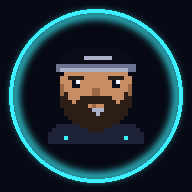
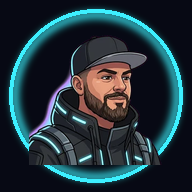
fix(pwa): use current character art on loading

Changed region(s): [[0.125, 0.1875, 0.8438, 0.875]]

diff --git a/js/assets.js b/js/assets.js
@@ -1,6 +1,5 @@
-// Arte HD gerada no Artlist (assets/*.webp). Carrega em segundo plano; enquanto não chega,
-// o render usa a pixel art de reserva de sprites.js.
-import { PORTRAIT_URL } from './sprites.js';
+// Arte HD gerada no Artlist (assets/*.webp). Carrega em segundo plano e nunca volta
+// para os retratos antigos enquanto os arquivos novos chegam.
 
 const NAMES = [
   'hero_idle', 'hero_run', 'hero_jump', 'hero_shoot', 'gle_idle', 'gle_run', 'gle_jump', 'gle_shoot', 'byte', 'byte_pink', 'drone', 'crawler', 'turret', 'boss',
@@ -40,10 +39,10 @@ export function loadArt() {
 export function useBotPortrait(botArt) { botKey = botArt === 'byte_pink' ? 'byte_pink' : 'byte'; }
 
 // Retrato de quem fala: sempre o HD (o navegador cuida do carregamento, sem corrida com o load).
-// Se o arquivo falhar, cai na pixel art de sprites.js; quem não tem retrato (SISTEMA) some.
+// Se o arquivo falhar, o retrato some; a arte antiga nunca reaparece.
 export function setPortrait(img, who) {
-  const key = who === 'byte' ? botKey : who, file = PORTRAITS[key], fallback = PORTRAIT_URL[who];
-  img.onerror = () => { img.onerror = null; if (fallback) img.src = fallback; else img.hidden = true; };
-  img.hidden = !file && !fallback;
-  if (file) img.src = assetPath(file); else if (fallback) img.src = fallback;
+  const key = who === 'byte' ? botKey : who, file = PORTRAITS[key];
+  img.onerror = () => { img.onerror = null; img.hidden = true; };
+  img.hidden = !file;
+  if (file) img.src = assetPath(file);
 }

diff --git a/js/render.js b/js/render.js
@@ -2,7 +2,6 @@
 import { W, H, T, ROWS, THEMES, PAL, HEROES, HERO_HEIGHT } from './config.js';
 import { rng } from './core.js';
 import { world, TILE, tileAt, isHackedGroupTile, pulseState } from './world.js';
-import { SPR } from './sprites.js';
 import { art, anim } from './assets.js';
 import { clawY, clawClosed, clawHeight, sceneDarkness, sceneFlash } from './scene.js';
 import { hackTarget } from './hack.js';
@@ -629,6 +628,8 @@ export function renderBackdrop(ctx, t) {
     rect(ctx, theme.line, x + T - 1, groundY, 1, 2 * T);
     rect(ctx, theme.hi, x, groundY, T, 2);
   }
-  ctx.drawImage(SPR.hero['idle-stand'][0], 120, groundY - 20);
-  ctx.drawImage(SPR.byte[0], 100, groundY - 34 + Math.round(Math.sin(t * 0.08) * 3));
+  // Enquanto a capa maior carrega, mostra apenas os personagens HD atuais; nunca os sprites antigos.
+  const hero = art('hero_idle'), bot = art('byte');
+  if (hero) drawArt(ctx, hero, 120, groundY, widthFor(hero, HERO_HEIGHT));
+  if (bot) drawArt(ctx, bot, 100, groundY - 20 + Math.round(Math.sin(t * 0.08) * 3), widthFor(bot, BYTE_HEIGHT));
 }

diff --git a/js/main.js b/js/main.js
@@ -1,7 +1,6 @@
 // Ponto de entrada: monta os módulos, dimensiona a tela e roda o loop com passo fixo.
 import { W, H, FPS, setViewWidth } from './config.js';
 import { $, on, emit } from './core.js';
-import { buildSprites } from './sprites.js';
 import { bindInput } from './input.js';
 import { tickMusic, unlockAudio, resumeAudio } from './audio.js';
 import { bindDialog } from './dialog.js';
@@ -68,7 +67,6 @@ function loop(now) {
 }
 
 function boot() {
-  buildSprites();
   loadArt();
   bindInput({ dpad: $('#dpad'), buttons: [...document.querySelectorAll('#btns [data-action]')] });
   bindDialog(); bindPuzzle(); bindScreens(); bindGame();

diff --git a/sw.js b/sw.js
@@ -1,9 +1,9 @@
 // Service worker: cache-first offline shell + stale-while-revalidate for Google Fonts.
-const VERSION = 'zeroday-445d1d3a6a';
+const VERSION = 'zeroday-cc43b97286';
 const FONT_CACHE = 'zeroday-fonts';
 
 const MODULES = [
-  'main', 'game', 'screens', 'render', 'config', 'core', 'audio', 'input', 'sprites', 'world', 'physics',
+  'main', 'game', 'screens', 'render', 'config', 'core', 'audio', 'input', 'world', 'physics',
   'dialog', 'hud', 'puzzle', 'fx', 'combat', 'player', 'hack', 'enemies', 'boss', 'ally', 'interact', 'assets', 'scene', 'i18n',
 ].map((name) => `js/${name}.js`);
 

diff --git a/build.py b/build.py
@@ -3,26 +3,13 @@
 import hashlib, re, sys
 from pathlib import Path
 
-from PIL import Image, ImageColor, ImageDraw, ImageFilter
+from PIL import Image, ImageDraw, ImageFilter
 
 ROOT = Path(__file__).resolve().parent
 BG = "#070914"
 CYAN = "#3df0ff"
 
-# Copied from js/config.js (PAL) and js/sprites.js (PORTRAITS.hero). '.' = transparent.
-PAL = {
-    "K": "#0b0d18", "k": "#1d2236", "G": "#6c7391", "g": "#aab1c9", "S": "#c98d63", "s": "#9a6747",
-    "B": "#2b1e17", "W": "#f1f4ff", "C": "#3df0ff", "c": "#1a8aa6", "P": "#28304d", "R": "#ff3b5c",
-    "r": "#a3173a", "O": "#e6e8f2", "Y": "#ffd23d", "V": "#9b5cff", "v": "#5a2fb0", "M": "#ff5ad1",
-}
-HERO = [
-    "......KKKKKKKKKKKK......", "....KKKKKKKKKKKKKKKK....", "...KKKKKKgggggggKKKKK...", "...KKKKKKKKKKKKKKKKKK...",
-    "..GGGGGGGGGGGGGGGGGGGG..", "..GgggggggggggggggggGG..", "....SSSSSSSSSSSSSSSS....", "...SSBBBBSSSSSSBBBBSS...",
-    "...SSSKWSSSSSSSSKWSSS...", "...sSSKKSSSSSSSSKKSSs...", "...sSSSSSSSssSSSSSSSs...", "...sBSSSSSSssSSSSSSBs...",
-    "...BBSSSBBBBBBBBSSSBB...", "...BBBSBBBBBBBBBBSBBB...", "...BBBBBBBSsSSBBBBBBB...", "....BBBBBBBgggBBBBBB....",
-    "....BBBBBBBBgBBBBBBB....", ".....BBBBBBBBBBBBBB.....", "......BBBBBBBBBBBB......", "..kkkkkkBBBBBBBBkkkkkk..",
-    ".kkkkkkkkkBBBBkkkkkkkkk.", "kkkkkkkkkkkkkkkkkkkkkkkk", "kkkkCkkkkkkkkkkkkkkCkkkk", "kkkkkkkkkkkkkkkkkkkkkkkk",
-]
+PORTRAIT = ROOT / "assets" / "portrait_hero.webp"
 
 HEAD = """<!doctype html>
 <html lang="en">
@@ -48,17 +35,8 @@ def build_html():
     return out
 
 
-def pixel_art(rows, palette):
-    img = Image.new("RGBA", (len(rows[0]), len(rows)), (0, 0, 0, 0))
-    for y, row in enumerate(rows):
-        for x, ch in enumerate(row):
-            if ch in palette:
-                img.putpixel((x, y), ImageColor.getrgb(palette[ch]) + (255,))
-    return img
-
-
 def render_icon(size, safe):
-    """Portrait centred on BG with a cyan ring; `safe` = fraction of the canvas the art+ring may occupy."""
+    """Current HD portrait centred on BG; `safe` keeps maskable artwork inside the safe area."""
     img = Image.new("RGBA", (size, size), BG)
     box = size * safe
     ring_r = box / 2 * 0.9
@@ -70,10 +48,11 @@ def render_icon(size, safe):
     img.alpha_composite(glow.filter(ImageFilter.GaussianBlur(size / 40)))
     ImageDraw.Draw(img).ellipse([c - ring_r, c - ring_r, c + ring_r, c + ring_r], outline=CYAN, width=ring_w)
 
-    art = pixel_art(HERO, PAL)
-    scale = max(1, int((ring_r * 1.3) // art.width))
-    art = art.resize((art.width * scale, art.height * scale), Image.NEAREST)
-    img.alpha_composite(art, (round(c - art.width / 2), round(c - art.height / 2)))
+    art = Image.open(PORTRAIT).convert("RGBA")
+    if box := art.getbbox():
+        art = art.crop(box)
+    art.thumbnail((round(ring_r * 1.55), round(ring_r * 1.55)), Image.Resampling.LANCZOS)
+    img.alpha_composite(art, (round(c - art.width / 2), round(c - art.height / 2 + ring_r * 0.04)))
     return img.convert("RGB")
 
 

diff --git a/docs/ARCHITECTURE.md b/docs/ARCHITECTURE.md
@@ -15,7 +15,7 @@ Plain ES modules, no framework and no bundler. Each module has one job; shared d
 | Systems | `combat.js`, `fx.js`, `scene.js`, `hack.js`, `puzzle.js`, `interact.js` | bullets, damage, XP and levels, particles and hearts, the abduction cutscene timeline, hacking, terminal puzzles, doors, pickups and checkpoints |
 | UI | `dialog.js`, `hud.js`, `screens.js` | dialog windows, HUD, title/map/pause/result/ending screens |
 | Audio | `audio.js` | WebAudio sound effects and the procedural soundtrack |
-| Render | `render.js`, `sprites.js`, `assets.js` | canvas drawing, camera zoom, parallax, pixel-art fallbacks, HD asset loading |
+| Render | `render.js`, `assets.js` | canvas drawing, camera zoom, parallax and HD asset loading without legacy character fallbacks |
 | Flow | `game.js`, `main.js` | state machine and event wiring, boot, viewport fitting and the fixed-step loop |
 
 ## Game loop
@@ -49,7 +49,7 @@ Levels are strings. A stage lists chunk names (`start`, `flat`, `pit`, `door`, `
 
 ## Animation
 
-`assets/anims.json` describes each sheet: frame count, cell size and a foot anchor (`ax`, `ay`). `render.js` plays `hero_*` or `gle_*` sheets by pose (`idle`, `run`, `jump`, `shoot`) and falls back to the static pose, then to pixel art, while assets load.
+`assets/anims.json` describes each sheet: frame count, cell size and a foot anchor (`ax`, `ay`). `render.js` plays `hero_*` or `gle_*` sheets by pose (`idle`, `run`, `jump`, `shoot`) and falls back only to the matching HD static pose while animation assets load.
 
 ## Audio
 
